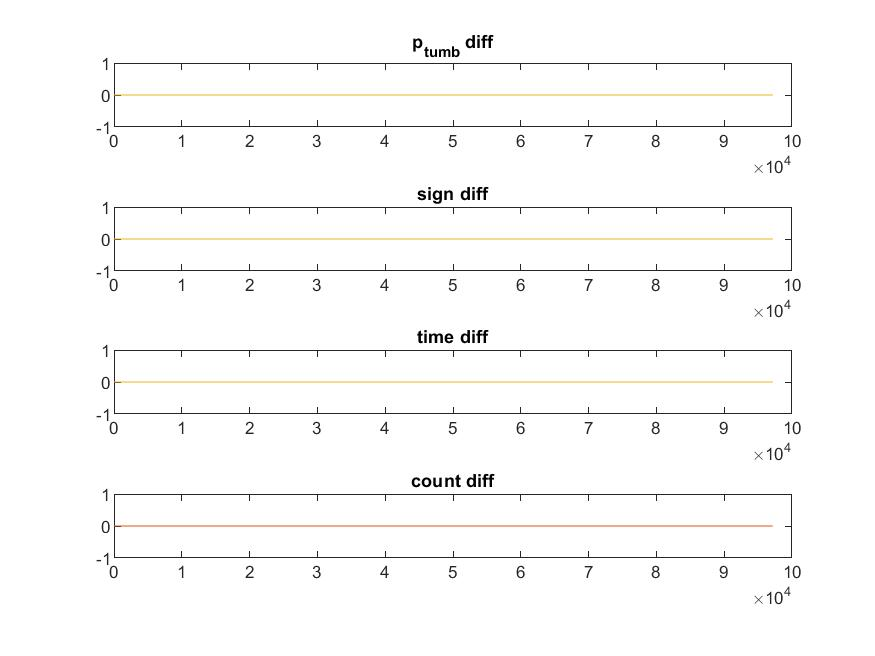
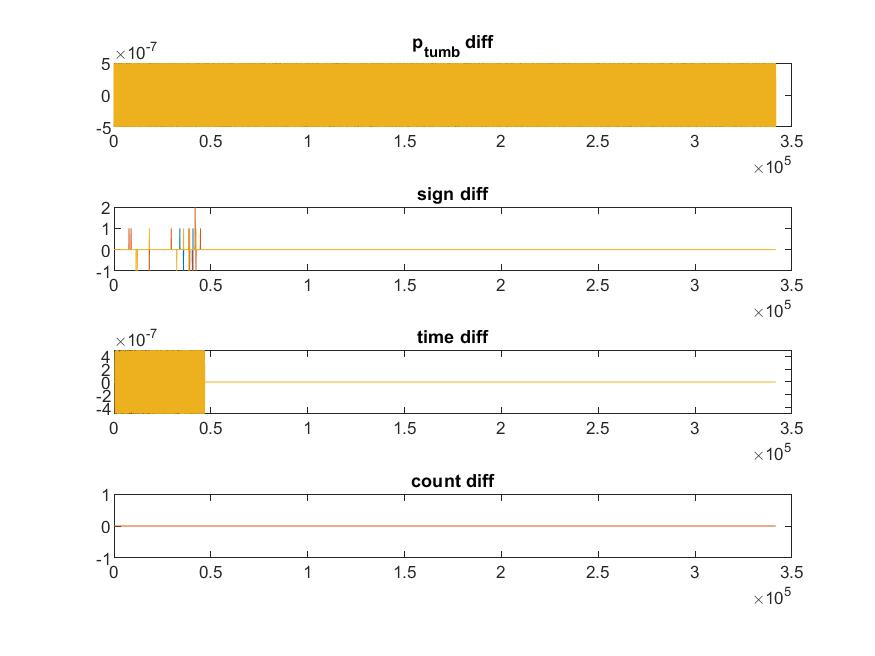
update HiL tests

diff --git a/detumble_algo_msp/detumble_main.c b/detumble_algo_msp/detumble_main.c
@@ -82,6 +82,7 @@ void *mainThread(void *arg0)
 
     /* unidenitified registers from earlier code, study effect under large execution time on FPU*/
     // WDT_A->CTL = WDT_A_CTL_PW | WDT_A_CTL_HOLD;      // stop watchdog timer
+    int cnt = 0;
     
     while(1) {
 
@@ -110,7 +111,7 @@ void *mainThread(void *arg0)
             // they are just incremented by controlLoop
             static unsigned int c_tumb = 0;
             static unsigned int c_detumb = 0;
-            GPIO_write(Board_GPIO_LED0, Board_GPIO_LED_ON);
+            //GPIO_write(Board_GPIO_LED0, Board_GPIO_LED_ON);
             controlLoop(mag1Data, mag2Data, &s_on, &t_on, &p_tumb, &c_tumb, &c_detumb);
             len = snprintf(writeBuf, UART_BUFFER_SIZE, 
                 "%lf,%lf,%lf,%lf,%lf,%lf,%lf,%lf,%lf,%lf,%lf,%lf,%lf,%lf,%lf,%d,%d\n",
@@ -121,10 +122,16 @@ void *mainThread(void *arg0)
                 p_tumb.x, p_tumb.y, p_tumb.z,
                 c_tumb, c_detumb);
 
+            cnt ++;
+
+            if (cnt % 50 == 0) {
+                GPIO_toggle(Board_GPIO_LED0);
+            }
 
             // flush result to python 
             UART_write(uart0, writeBuf, len);
-            GPIO_write(Board_GPIO_LED0, Board_GPIO_LED_OFF);
+
+            //GPIO_write(Board_GPIO_LED0, Board_GPIO_LED_OFF);
             // preliminaries before next csv read
             memset(writeBuf, 0, 200);
             memset(readBuf, 0, 200);

diff --git a/detumble_algo_pc/main.c b/detumble_algo_pc/main.c
@@ -26,12 +26,12 @@ int main(int argc, char *argv[])
 	FILE *csv_output;
 	char buf[LINE_BUFFER] = { 0 };
 	//csv_input = fopen(argv[1], "r");
-	csv_input = fopen("data4test_03_in2.csv", "r");
+	csv_input = fopen("data4test_04_in.csv", "r");
 	if (csv_input == NULL) {
 		printf("failed to open input csv\n");
 	}
 
-	csv_output = fopen("data4test_03_out2.csv", "w");
+	csv_output = fopen("data4test_04_out_pc.csv", "w");
 	if (csv_output == NULL) {
 		printf("failed to open output csv\n");
 	}

diff --git a/plotters/compare_plots.m b/plotters/compare_plots.m
@@ -1,7 +1,7 @@
 % plot detumble parameter for verifying the C and matlab detumble algorithms
 
-readMatrix_r = csvread('data4test_03_in.csv', 1, 0);
-readMatrix_pc = csvread('data4test_04_in.csv', 1, 0);
+readMatrix_r = csvread('data4test_04_in.csv', 1, 0);
+readMatrix_pc = csvread('data4test_04_out_pc.csv', 1, 0);
 readMatrix_msp = csvread('data4test_04_out_msp.csv', 1, 0);
 
 % to be able to plot incomplete HIL tests, resize everyone to MSP432's
